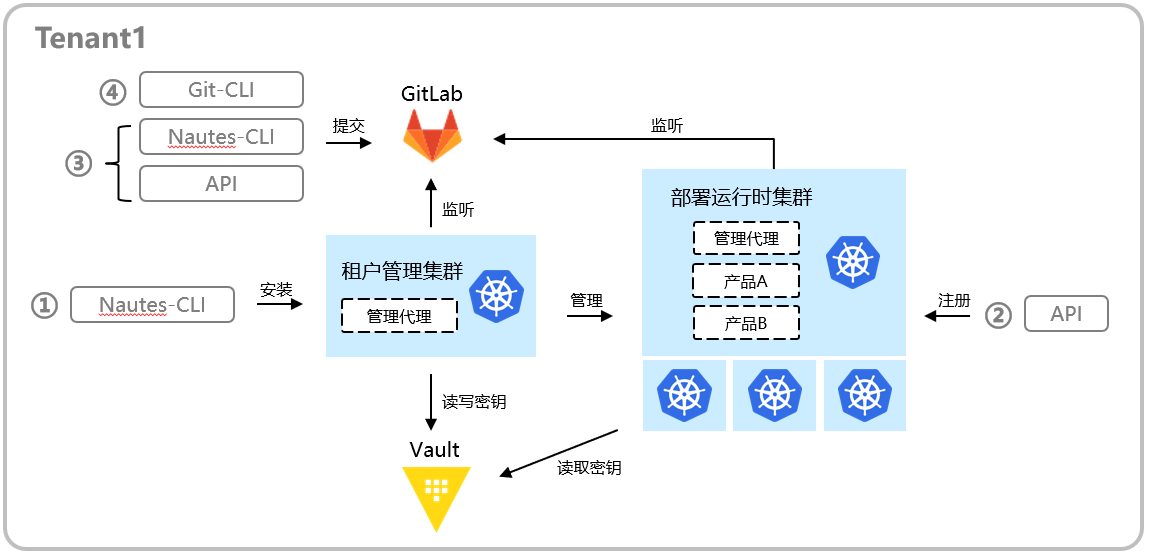
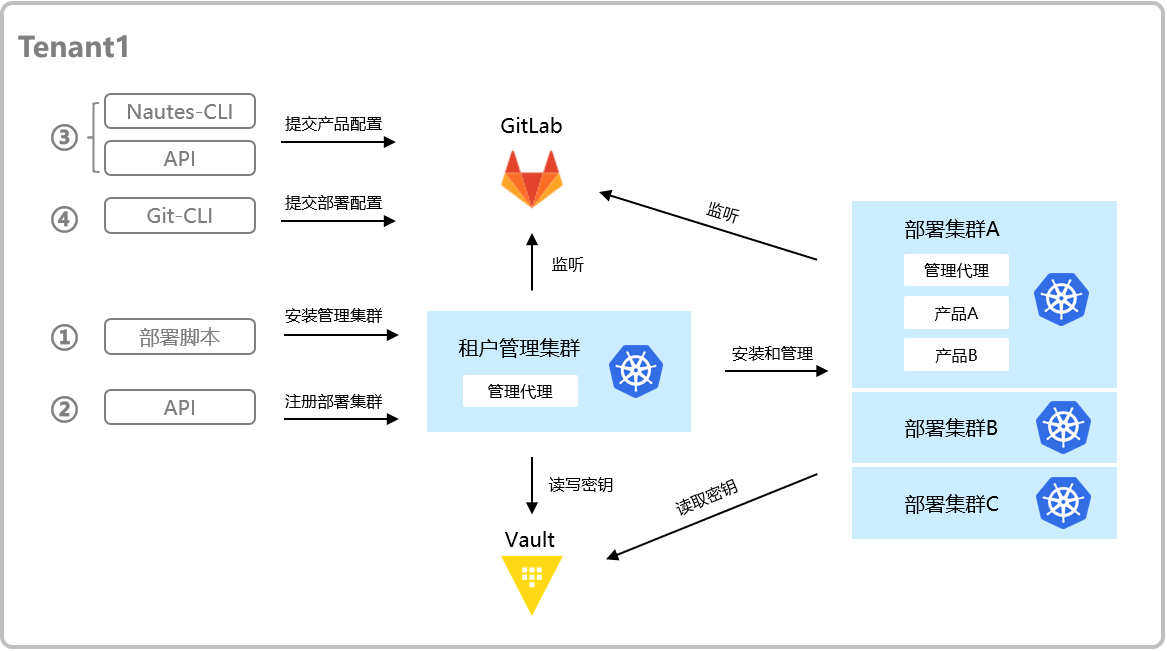
update the overview of user-guide

diff --git a/src/guide/user-guide/user-guide-00.md b/src/guide/user-guide/user-guide-00.md
@@ -12,34 +12,40 @@ Nautes是一个开源的CI/CD持续交付平台，融合了DevOps理念和GitOps
 - 使用单一的 Git 配置库，自动化持续部署应用系统及其基础设施，提升部署可靠性。
 - 可视化跟踪部署链路，以便快速发现和定位问题。
 
-## 主流程简介
-下文将描述一个租户从零开始到自动实施部署的主流程。主流程执行成功之后的整体效果，如下图所示：
+## 流程简介
+下文将描述一个租户从零开始到自动实施部署的主流程。包括以下步骤:
+1. 安装租户管理集群
+2. 注册部署运行时集群
+3. 提交产品配置清单
+4. 提交部署清单
+5. 跟踪部署过程和结果
+
+主流程成功执行之后的效果，如下图所示：
 ![directive syntax graph](./../images/user-guide-overview-1.png)
 
-每个租户只有一个租户管理集群，该集群负责初始化当前租户的所有运行时集群，并向这些运行时集群安装组件及同步资源。此外，它还协调各种组件，以向运行时集群实施自动化部署。每个租户也只有一个租户配置库。租户管理集群通过监听租户配置库，向当前集群自动更新相关组件和资源。  
+【待更新】
+每个租户只有一个租户管理集群，该集群负责初始化当前租户的所有运行时集群，并向这些运行时集群安装组件并同步资源。此外，它还协调各种组件，以向运行时集群实施自动化部署。每个租户只有一个存储在 GitLab 中的租户配置库。租户管理集群通过监听租户配置库，向当前集群自动更新相关组件和资源。  
 每个租户可以拥有多个运行时集群，这些运行时集群是承载IT系统运行时环境的真正载体，可以是虚拟集群或者物理集群。  
 
-在Nautes中，对于微服务架构的IT系统，“产品”表示一个IT系统，“项目”表示一个微服务。因此，一个产品包含多个项目，每个项目有独立的代码库。  
-提交部署运行时的配置清单后，产品分别与 Gitlab 中的 group 和 Kubernetes 集群中的 namespace 对应，Nautes 借助 group 和 namespace 的规则对产品进行权限隔离。  
+在Nautes中，对于微服务架构的IT系统，“产品”表示一个IT系统，“项目”表示一个微服务。因此，一个产品包含多个项目，每个项目有独立的代码库。
+
+不能将产品向运行时集群直接部署。
+根据软件系统的生命周期，产品包含开发、测试、预生产、生产等环境，需要将集群关联产品的环境之后，才表示这个集群可以供产品用于部署。
+
 每个产品可以包含多个部署运行时，例如，使用相同部署清单在不同集群所创建出来的功能测试和客户演示环境。同时，在相同集群上也可以承载多个产品的部署运行时环境。  
+
+提交部署运行时的配置清单后，产品分别与 Gitlab 中的 group 和 Kubernetes 集群中的 namespace 对应，Nautes 借助 group 和 namespace 的规则对产品进行权限隔离。  
+
 
 为了保护敏感信息不被泄露，在 Nautes 中的敏感信息均通过 Vault 存取。  
 
-主流程的步骤如下：
-- [Nautes 简介](#nautes-简介)
-- [主流程简介](#主流程简介)
-  - [自动安装租户管理集群及相关组件](#自动安装租户管理集群及相关组件)
-  - [注册部署运行时集群](#注册部署运行时集群)
-  - [提交部署运行时所需的产品配置清单](#提交部署运行时所需的产品配置清单)
-  - [提交部署清单](#提交部署清单)
-  - [跟踪部署过程和结果](#跟踪部署过程和结果)
 
 
-### 自动安装租户管理集群及相关组件
+### 安装租户管理集群
 
 ### 注册部署运行时集群
 
-### 提交部署运行时所需的产品配置清单
+### 提交产品配置清单
 
 “配置清单”指部署运行时环境所需的资源，包括：环境（负载IT系统部署运行时的被授权集群）、项目（IT系统的某个微服务）、代码库（存储部署配置清单的 GitLab 代码库，简称部署配置库）和部署运行时（IT系统的部署运行时配置）等资源。 
 有两种方式可以提交配置清单：Nautes-CLI 和 API 接口。使用 Nautes-CLI 的详细步骤参见 [入门指南] 章节，使用 API 接口的详细步骤参见 [用户指南] 章节。  
